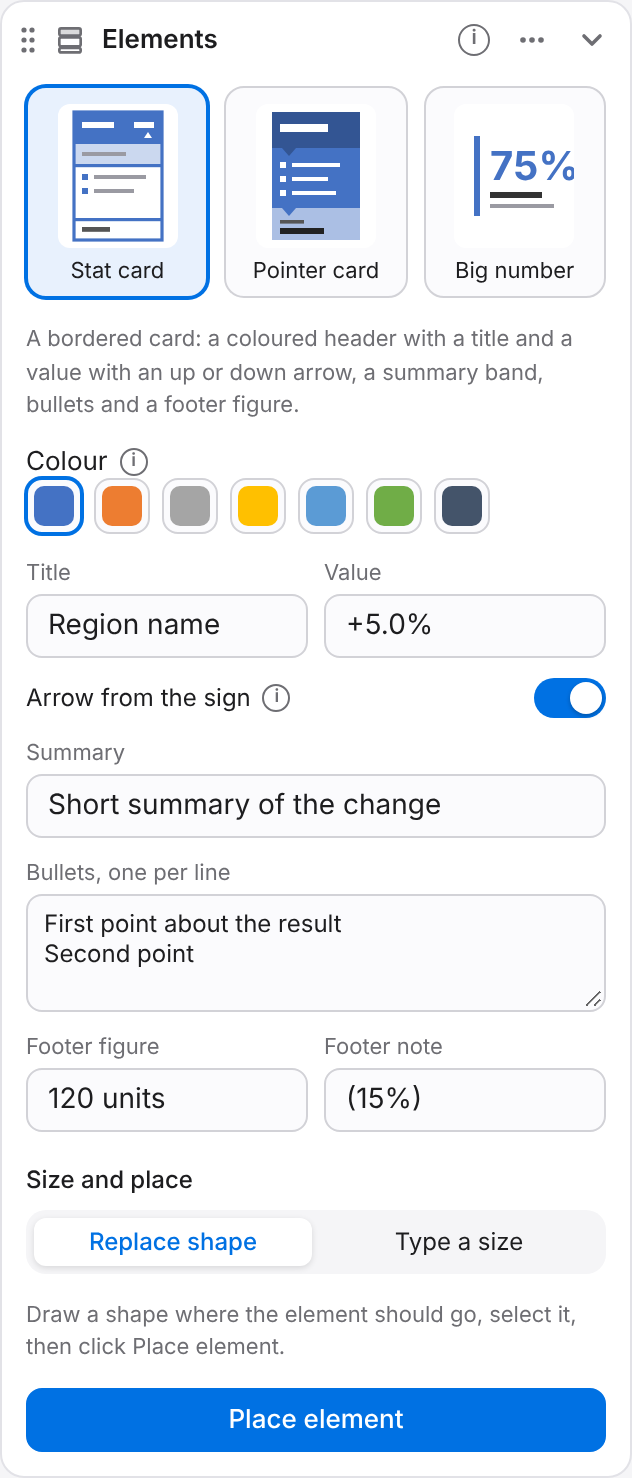
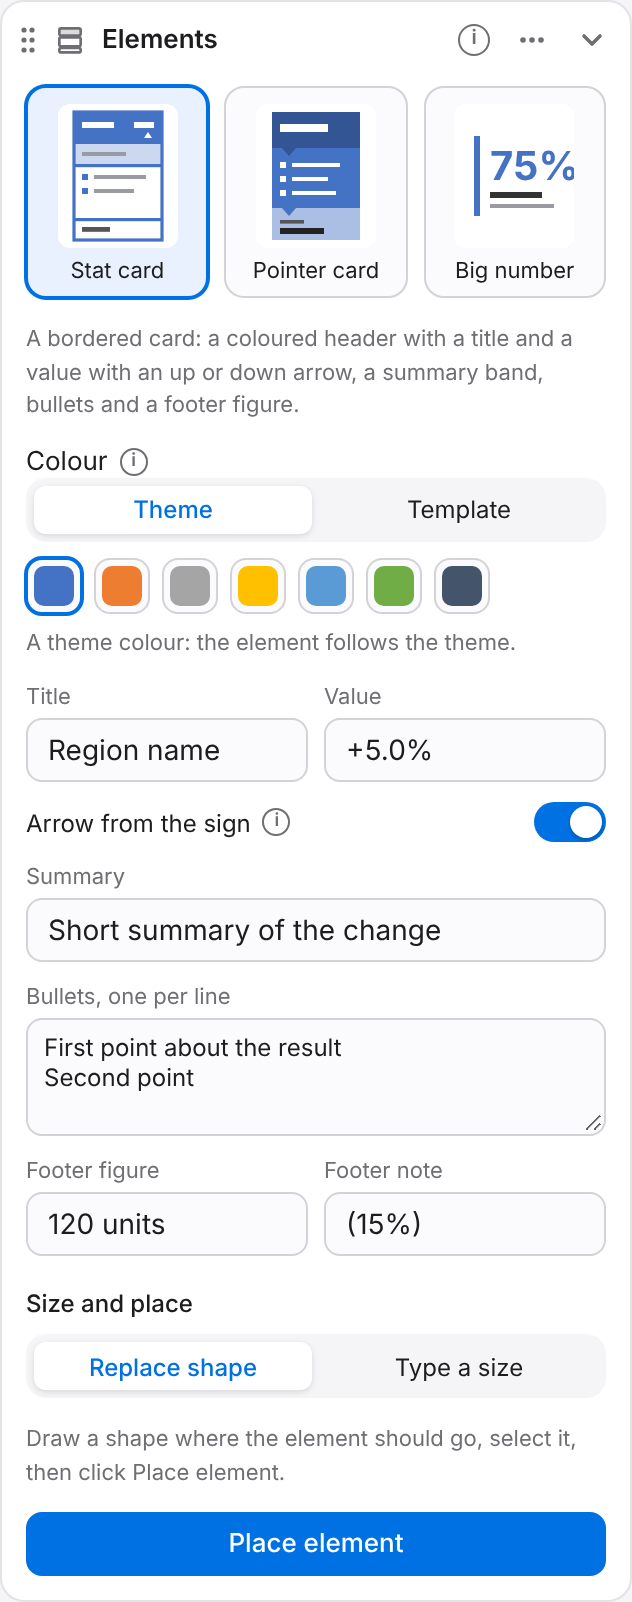
3.12.0: Elements colour tabs for theme, template and your colours
The Elements colour picker offers the same Theme, Template and Yours
colours as the Colours tool. Template and saved colours are written as
fixed colours with the same darker and lighter variants as theme colours.
The Colours tool now tells other tools when its lists change.

diff --git a/manual/elements.html b/manual/elements.html
@@ -7,6 +7,6 @@
 <button class="menu-toggle" id="menuToggle" type="button">Menu</button><button class="theme-btn" id="themeBtn" type="button">Dark mode</button></div></header>
 <div class="page">
 <aside class="side" aria-label="All pages"><h2>Start</h2><ol><li><a href="../manual.html">Home</a></li><li><a href="install.html">Install</a></li></ol><h2>Tools</h2><ol><li><a href="layout.html">Grid</a></li><li><a href="arrange.html">Position</a></li><li><a href="resize.html">Size</a></li><li><a href="copies.html">Copies</a></li><li><a href="animate.html">Animation</a></li><li><a href="elements.html" class="on">Elements</a></li><li><a href="typography.html">Typography</a></li><li><a href="colours.html">Colours</a></li><li><a href="styles.html">Styles</a></li><li><a href="shapestyles.html">Shape styles</a></li><li><a href="images.html">Images</a></li><li><a href="tables.html">Tables</a></li><li><a href="corners.html">Corners</a></li><li><a href="match.html">Select similar</a></li></ol><h2>Reference</h2><ol><li><a href="formulas.html">Formulas and units</a></li><li><a href="glossary.html">Glossary</a></li><li><a href="tips.html">Expert tips</a></li></ol></aside>
-<main><div class="hero"><h1>Elements</h1><p class="lead">Prebuilt design elements in your theme colours.</p></div><section class="block"><h2 id="overview">Overview</h2><p>Elements drops prebuilt design elements onto the slide: a stat card with a value and an arrow, a pointer card with bands joined by small pointers, and a big number. They use your theme's colours and fonts, so they match the template they're placed in.</p><h3>Quick start</h3><ol class="steps"><li>Click the picture of the element you want, then pick a colour and fill in its text.</li><li>Draw a rectangle where it should go and select it.</li><li>Click <b>Place element</b>, then edit the text on the slide like any other shape.</li></ol></section><section class="block"><h2 id="panel">The panel, control by control</h2><figure class="annot"><div><div class="annot-img"><img src="img/elements-basic.png" alt="Elements with the Stat card chosen." width="316" height="739" loading="lazy"><a class="mark" href="#elements-basic-1" style="left:5.06%;top:6.23%" aria-label="Elements">1</a><a class="mark" href="#elements-basic-2" style="left:5.06%;top:32.70%" aria-label="Colour">2</a><a class="mark" href="#elements-basic-3" style="left:5.06%;top:40.56%" aria-label="Text fields">3</a><a class="mark" href="#elements-basic-4" style="left:5.06%;top:82.26%" aria-label="Size and place">4</a><a class="mark" href="#elements-basic-6" style="left:5.06%;top:94.31%" aria-label="Place element">6</a></div><figcaption>Elements with the Stat card chosen.</figcaption></div><div class="annot-side"><ol><li><span class="num">1</span><a href="#elements-basic-1">Elements</a></li><li><span class="num">2</span><a href="#elements-basic-2">Colour</a></li><li><span class="num">3</span><a href="#elements-basic-3">Text fields</a></li><li><span class="num">4</span><a href="#elements-basic-4">Size and place</a></li><li><span class="num">5</span><a href="#elements-basic-5">Width and Height</a></li><li><span class="num">6</span><a href="#elements-basic-6">Place element</a></li></ol></div></figure><div class="table-wrap"><table class="ref"><thead><tr><th>#</th><th>Control</th><th>What it does</th><th>Values and default</th><th>Notes</th></tr></thead><tbody><tr id="elements-basic-1" data-control="elKinds"><td class="n"><span>1</span></td><td><b>Elements</b><br><span class="lvl">Basic</span></td><td>A small picture of each element: <b>Stat card</b>, <b>Pointer card</b> and <b>Big number</b>, drawn in the chosen colour. Click one to see its settings below.</td><td>None picked to start with</td><td>The line under the pictures says what the chosen element holds. More elements will follow.</td></tr><tr id="elements-basic-2" data-control="elColors"><td class="n"><span>2</span></td><td><b>Colour</b><br><span class="lvl">Basic</span></td><td>The theme colour the element is built from. Headers use a darker shade of it and lighter bands use tints, so changing the theme recolours the element.</td><td>Accent 1</td><td>The chips show your theme's colours once the panel has read them.</td></tr><tr id="elements-basic-3" data-control="elStTitle elStValue elStArrow elStSub elStBullets elStFootB elStFootN elPtTitle elPtBullets elPtLabel elPtFoot elBnNum elBnLabel elBnNote"><td class="n"><span>3</span></td><td><b>Text fields</b><br><span class="lvl">Basic</span></td><td>The text for the chosen element. Bullets take one point per line. You can leave the sample text and edit it on the slide afterwards.</td><td>Sample text</td><td>In a Stat card, a value starting with + gets an up arrow, one starting with - a down arrow, and 0 a flat arrow, unless Arrow from the sign is off.</td></tr><tr id="elements-basic-4" data-control="elPlace"><td class="n"><span>4</span></td><td><b>Size and place</b><br><span class="lvl">Basic</span></td><td><b>Replace shape</b> puts the element exactly where the selected shape is, at its size, and removes the shape. <b>Type a size</b> uses the Width and Height boxes and places it at the grid area's top left.</td><td>Replace shape</td><td>Draw a quick rectangle where the element should go, select it, and click Place element.</td></tr><tr id="elements-basic-5" data-control="elW elH"><td class="n"><span>5</span></td><td><b>Width and Height</b><br><span class="lvl">Basic</span></td><td>The element's size when typing a size. Width takes formulas such as <code>3col</code>, <code>2col+gap</code> or <code>8g</code>. Leave Height empty to fit the text.</td><td>Width 3col, Height empty</td><td>With a height larger than the text needs, the main band grows to fill it.</td></tr><tr id="elements-basic-6" data-control="elPlaceBtn"><td class="n"><span>6</span></td><td><b>Place element</b><br><span class="lvl">Basic</span></td><td>Builds the element as one group of shapes with the text inside each shape, and selects it.</td><td><span class="muted">None</span></td><td>The slide is swapped for an identical copy with the element, in memory, because add-ins can't set bullets or theme tints directly. Repeat last action places another.</td></tr></tbody></table></div></section><section class="block"><h2 id="how">How it works</h2><h3>One group, text inside</h3><p>Each element is a group. Every band is a shape that holds its own text, so the text moves with its band. Bullets have a hanging indent, so wrapped lines line up under the text.</p><h3>Theme colours</h3><p>Colours are theme colours with PowerPoint's own lighter and darker variants, and fonts are the theme's heading and body fonts.</p><div class="note"><b>Tip</b>Bands don't grow on their own when you add a lot of text. Make a band taller and move the ones below it, or place the element again with more height.</div></section><section class="block"><h2 id="related">Related tools</h2><ul><li><a href="layout.html">Grid</a> sets g and the columns that Width uses.</li><li><a href="resize.html">Size</a> resizes the element afterwards.</li></ul></section><nav class="pager" aria-label="Next and previous"><a class="prev" href="animate.html"><small>Previous</small>Animation</a><a class="next" href="typography.html"><small>Next</small>Typography</a></nav></main>
+<main><div class="hero"><h1>Elements</h1><p class="lead">Prebuilt design elements in your theme colours.</p></div><section class="block"><h2 id="overview">Overview</h2><p>Elements drops prebuilt design elements onto the slide: a stat card with a value and an arrow, a pointer card with bands joined by small pointers, and a big number. They use your theme's colours and fonts, so they match the template they're placed in.</p><h3>Quick start</h3><ol class="steps"><li>Click the picture of the element you want, then pick a colour and fill in its text.</li><li>Draw a rectangle where it should go and select it.</li><li>Click <b>Place element</b>, then edit the text on the slide like any other shape.</li></ol></section><section class="block"><h2 id="panel">The panel, control by control</h2><figure class="annot"><div><div class="annot-img"><img src="img/elements-basic.png" alt="Elements with the Stat card chosen." width="316" height="739" loading="lazy"><a class="mark" href="#elements-basic-1" style="left:5.06%;top:6.23%" aria-label="Elements">1</a><a class="mark" href="#elements-basic-2" style="left:5.06%;top:32.70%" aria-label="Colour">2</a><a class="mark" href="#elements-basic-3" style="left:5.06%;top:40.56%" aria-label="Text fields">3</a><a class="mark" href="#elements-basic-4" style="left:5.06%;top:82.26%" aria-label="Size and place">4</a><a class="mark" href="#elements-basic-6" style="left:5.06%;top:94.31%" aria-label="Place element">6</a></div><figcaption>Elements with the Stat card chosen.</figcaption></div><div class="annot-side"><ol><li><span class="num">1</span><a href="#elements-basic-1">Elements</a></li><li><span class="num">2</span><a href="#elements-basic-2">Colour</a></li><li><span class="num">3</span><a href="#elements-basic-3">Text fields</a></li><li><span class="num">4</span><a href="#elements-basic-4">Size and place</a></li><li><span class="num">5</span><a href="#elements-basic-5">Width and Height</a></li><li><span class="num">6</span><a href="#elements-basic-6">Place element</a></li></ol></div></figure><div class="table-wrap"><table class="ref"><thead><tr><th>#</th><th>Control</th><th>What it does</th><th>Values and default</th><th>Notes</th></tr></thead><tbody><tr id="elements-basic-1" data-control="elKinds"><td class="n"><span>1</span></td><td><b>Elements</b><br><span class="lvl">Basic</span></td><td>A small picture of each element: <b>Stat card</b>, <b>Pointer card</b> and <b>Big number</b>, drawn in the chosen colour. Click one to see its settings below.</td><td>None picked to start with</td><td>The line under the pictures says what the chosen element holds. More elements will follow.</td></tr><tr id="elements-basic-2" data-control="elColors elColTabs"><td class="n"><span>2</span></td><td><b>Colour</b><br><span class="lvl">Basic</span></td><td>The colour the element is built from, in the same tabs as Colours: <b>Theme</b>, <b>Template</b> and <b>Yours</b>. Headers use a darker shade of it and lighter bands use tints.</td><td>Accent 1</td><td>Theme colours follow the theme. Template colours and yours are fixed colours, and the line under the chips says which you picked. Template and Yours only show when there are colours in them.</td></tr><tr id="elements-basic-3" data-control="elStTitle elStValue elStArrow elStSub elStBullets elStFootB elStFootN elPtTitle elPtBullets elPtLabel elPtFoot elBnNum elBnLabel elBnNote"><td class="n"><span>3</span></td><td><b>Text fields</b><br><span class="lvl">Basic</span></td><td>The text for the chosen element. Bullets take one point per line. You can leave the sample text and edit it on the slide afterwards.</td><td>Sample text</td><td>In a Stat card, a value starting with + gets an up arrow, one starting with - a down arrow, and 0 a flat arrow, unless Arrow from the sign is off.</td></tr><tr id="elements-basic-4" data-control="elPlace"><td class="n"><span>4</span></td><td><b>Size and place</b><br><span class="lvl">Basic</span></td><td><b>Replace shape</b> puts the element exactly where the selected shape is, at its size, and removes the shape. <b>Type a size</b> uses the Width and Height boxes and places it at the grid area's top left.</td><td>Replace shape</td><td>Draw a quick rectangle where the element should go, select it, and click Place element.</td></tr><tr id="elements-basic-5" data-control="elW elH"><td class="n"><span>5</span></td><td><b>Width and Height</b><br><span class="lvl">Basic</span></td><td>The element's size when typing a size. Width takes formulas such as <code>3col</code>, <code>2col+gap</code> or <code>8g</code>. Leave Height empty to fit the text.</td><td>Width 3col, Height empty</td><td>With a height larger than the text needs, the main band grows to fill it.</td></tr><tr id="elements-basic-6" data-control="elPlaceBtn"><td class="n"><span>6</span></td><td><b>Place element</b><br><span class="lvl">Basic</span></td><td>Builds the element as one group of shapes with the text inside each shape, and selects it.</td><td><span class="muted">None</span></td><td>The slide is swapped for an identical copy with the element, in memory, because add-ins can't set bullets or theme tints directly. Repeat last action places another.</td></tr></tbody></table></div></section><section class="block"><h2 id="how">How it works</h2><h3>One group, text inside</h3><p>Each element is a group. Every band is a shape that holds its own text, so the text moves with its band. Bullets have a hanging indent, so wrapped lines line up under the text.</p><h3>Theme colours</h3><p>Colours are theme colours with PowerPoint's own lighter and darker variants, and fonts are the theme's heading and body fonts.</p><div class="note"><b>Tip</b>Bands don't grow on their own when you add a lot of text. Make a band taller and move the ones below it, or place the element again with more height.</div></section><section class="block"><h2 id="related">Related tools</h2><ul><li><a href="layout.html">Grid</a> sets g and the columns that Width uses.</li><li><a href="resize.html">Size</a> resizes the element afterwards.</li></ul></section><nav class="pager" aria-label="Next and previous"><a class="prev" href="animate.html"><small>Previous</small>Animation</a><a class="next" href="typography.html"><small>Next</small>Typography</a></nav></main>
 <aside class="onpage" aria-label="On this page"><h2>On this page</h2><ol id="onpageList"></ol></aside>
 </div></body></html>

diff --git a/js/tools/elements.js b/js/tools/elements.js
@@ -13,7 +13,7 @@
   var ICON = '<svg viewBox="0 0 18 18" fill="none" stroke="currentColor" stroke-width="1.5" stroke-linejoin="round"><rect x="3" y="2.5" width="12" height="4" rx="1" fill="currentColor" fill-opacity="0.25"/><rect x="3" y="7.5" width="12" height="5" rx="1"/><rect x="3" y="13.5" width="12" height="2.5" rx="1"/></svg>';
 
   var defaults = {
-    elKind: "", elColor: "accent1", elPlace: "selection", elW: "3col", elH: "",
+    elKind: "", elColor: "accent1", elColTab: "", elPlace: "selection", elW: "3col", elH: "",
     elStTitle: "Region name", elStValue: "+5.0%", elStArrow: true, elStSub: "Short summary of the change",
     elStBullets: "First point about the result\nSecond point", elStFootB: "120 units", elStFootN: "(15%)",
     elPtTitle: "Key insight", elPtBullets: "First point\nSecond point\nThird point", elPtLabel: "Action needed:", elPtFoot: "Next step",
@@ -33,8 +33,12 @@
   function e(pt) { return Math.round(pt * 12700); }
   function x(t) { return String(t).replace(/[&<>"]/g, function (c) { return { "&": "&amp;", "<": "&lt;", ">": "&gt;", '"': "&quot;" }[c]; }); }
   // A theme colour, optionally darker (lumMod) or lighter (lumMod plus lumOff)
+  // slot: a theme slot such as accent1, or a colour such as #C00000 from the template or your colours.
+  // Darker and lighter variants use the same lumMod and lumOff for both, like PowerPoint's own tints.
   function clr(slot, mod, off, alpha) {
-    return '<a:schemeClr val="' + slot + '">' + (mod ? '<a:lumMod val="' + mod + '"/>' : "") + (off ? '<a:lumOff val="' + off + '"/>' : "") + (alpha ? '<a:alpha val="' + alpha + '"/>' : "") + "</a:schemeClr>";
+    var fx = (mod ? '<a:lumMod val="' + mod + '"/>' : "") + (off ? '<a:lumOff val="' + off + '"/>' : "") + (alpha ? '<a:alpha val="' + alpha + '"/>' : "");
+    if (/^#[0-9a-f]{6}$/i.test(slot)) return '<a:srgbClr val="' + slot.slice(1).toUpperCase() + '">' + fx + "</a:srgbClr>";
+    return '<a:schemeClr val="' + slot + '">' + fx + "</a:schemeClr>";
   }
   function palette(slot) {
     return {
@@ -289,7 +293,9 @@
     '<div class="el-kinds" id="elKinds"></div>' +
     '<div class="help" id="elKindTip"></div>' +
     '<div class="el-settings" id="elSettings">' +
-    '<div class="field"><span class="label-row">Colour' + ST.info("Theme colours, so the element follows your template. Lighter bands are tints of the colour you pick.", "About colour") + '</span><div class="el-colors" id="elColors"></div></div>' +
+    '<div class="field"><span class="label-row">Colour' + ST.info("<b>Theme</b> colours follow the theme. <b>Template</b> colours are the extra colours your template defines, and <b>Yours</b> are the colours saved in Colours. Headers use a darker shade of the colour you pick and lighter bands use tints of it.", "About colour") + '</span>' +
+      '<div class="seg col-tabs el-col-tabs" id="elColTabs"><button data-v="theme">Theme</button><button data-v="template">Template</button><button data-v="mine">Yours</button></div>' +
+      '<div class="el-colors" id="elColors"></div><div class="help" id="elColNote"></div></div>' +
     FIELDS.stat + FIELDS.pointer + FIELDS.bignum +
     '<div class="group-label">Size and place</div>' +
     seg("elPlace", [["selection", "Replace shape", "Draw a shape, select it, and the element takes its size and place"], ["size", "Type a size", "A width in g, col or points, at the grid area's top left"]]) +
@@ -306,7 +312,7 @@
     return '<svg viewBox="0 0 60 72"><rect x="10" y="16" width="3" height="40" fill="' + c + '"/><text x="18" y="38" font-family="Segoe UI, Arial, sans-serif" font-weight="700" font-size="20" fill="' + c + '">75%</text><rect x="18" y="44" width="26" height="3" fill="#333"/><rect x="18" y="50" width="32" height="2" fill="' + t + '"/></svg>';
   }
   function renderKinds() {
-    var box = $("elKinds"), hex = themeHex[ST.state.elColor];
+    var box = $("elKinds"), hex = /^#/.test(ST.state.elColor) ? ST.state.elColor : themeHex[ST.state.elColor];
     box.innerHTML = "";
     KINDS.forEach(function (k) {
       var b = document.createElement("button");
@@ -322,18 +328,36 @@
     $("elSettings").hidden = !cur;
     Array.prototype.forEach.call(document.querySelectorAll(".el-fields"), function (f) { f.hidden = !cur || f.getAttribute("data-kind") !== cur.id; });
   }
+  // Colours: theme colours (which follow the theme), then the template's own colours and yours,
+  // the same lists the Colours tool shows. Template and your colours are fixed colours.
+  function colourLists() {
+    var C = ST._colours || {}, tpl = C.template ? C.template() : [], mine = C.get ? C.get() : [];
+    return {
+      theme: COLORS.map(function (c) { return { v: c[0], name: c[1], hex: themeHex[c[0]] }; }),
+      template: tpl.filter(function (c) { return c && c.hex && c.hex !== "#FFFFFF"; }).map(function (c) { return { v: c.hex, name: c.name || c.hex, hex: c.hex }; }),
+      mine: mine.filter(function (c) { return c && c.hex; }).map(function (c) { return { v: c.hex, name: c.name || c.hex, hex: c.hex }; })
+    };
+  }
   function renderColors() {
-    var box = $("elColors");
+    var box = $("elColors"), tabs = $("elColTabs");
     if (!box) return;
+    var L = colourLists(), have = { theme: true, template: L.template.length > 0, mine: L.mine.length > 0 };
+    var cur = ST.state.elColor || "accent1", inTab = function (k) { return L[k].some(function (c) { return c.v === cur; }); };
+    var tab = have[ST.state.elColTab] ? ST.state.elColTab : (inTab("template") ? "template" : inTab("mine") ? "mine" : "theme");
+    Array.prototype.forEach.call(tabs.children, function (b) { var v = b.getAttribute("data-v"); b.hidden = !have[v]; b.classList.toggle("on", v === tab); });
+    tabs.hidden = !have.template && !have.mine;
+    tabs.style.gridTemplateColumns = "repeat(" + Object.keys(have).filter(function (k) { return have[k]; }).length + ", 1fr)";
     box.innerHTML = "";
-    COLORS.forEach(function (c) {
+    L[tab].forEach(function (c) {
       var b = document.createElement("button");
-      b.className = "el-color" + (ST.state.elColor === c[0] ? " on" : "");
-      b.title = c[1]; b.setAttribute("aria-label", c[1]); b.setAttribute("data-slot", c[0]);
-      b.innerHTML = '<span style="background:' + (themeHex[c[0]] || "var(--field-line)") + '"></span>';
-      b.addEventListener("click", function () { ST.state.elColor = c[0]; ST.save(); renderColors(); renderKinds(); });
+      b.className = "el-color" + (cur === c.v ? " on" : "");
+      b.title = c.name + (c.hex && c.name !== c.hex ? " " + c.hex : ""); b.setAttribute("aria-label", c.name); b.setAttribute("data-slot", c.v);
+      b.innerHTML = '<span style="background:' + (c.hex || "var(--field-line)") + '"></span>';
+      b.addEventListener("click", function () { ST.state.elColor = c.v; ST.state.elColTab = tab; ST.save(); renderColors(); renderKinds(); });
       box.appendChild(b);
     });
+    var note = $("elColNote"), chosen = L.theme.concat(L.template, L.mine).filter(function (c) { return c.v === cur; })[0];
+    note.textContent = /^#/.test(cur) ? (chosen ? chosen.name + ", " : "") + cur + ". A fixed colour: it stays the same if the theme changes." : "A theme colour: the element follows the theme.";
   }
   function renderPlace() {
     var size = ST.state.elPlace === "size";
@@ -355,11 +379,15 @@
     Array.prototype.forEach.call($("elPlace").children, function (b) {
       b.addEventListener("click", function (ev) { ev.preventDefault(); ST.state.elPlace = b.getAttribute("data-v"); ST.save(); renderPlace(); });
     });
+    Array.prototype.forEach.call($("elColTabs").children, function (b) {
+      b.addEventListener("click", function (ev) { ev.preventDefault(); ST.state.elColTab = b.getAttribute("data-v"); ST.save(); renderColors(); });
+    });
     $("elPlaceBtn").addEventListener("click", function () { place(null); });
     render();
     ST.on("reset", render);
     ST.on("change", renderPlace);
-    ST.on("layout", loadTheme);
+    ST.on("layout", function () { loadTheme(); renderColors(); });
+    ST.on("colours", function () { renderColors(); renderKinds(); });
     ST.on("ready", loadTheme);
   }
 

diff --git a/taskpane.html b/taskpane.html
@@ -6,7 +6,7 @@
 <meta http-equiv="X-UA-Compatible" content="IE=Edge">
 <title>Slide Tools</title>
 <script src="https://appsforoffice.microsoft.com/lib/1/hosted/office.js"></script>
-<link rel="stylesheet" href="css/panel.css?v=3.11.1">
+<link rel="stylesheet" href="css/panel.css?v=3.12.0">
 </head>
 <body>
 <div class="topbar">
@@ -30,31 +30,31 @@
 <div class="toast" id="toast"></div>
 
 <!-- Load order matters: core, then the panel framework, then each tool, then the starter. -->
-<script src="js/core.js?v=3.11.1" defer></script>
-<script src="js/panels.js?v=3.11.1" defer></script>
-<script src="js/rebuild.js?v=3.11.1" defer></script>
-<script src="js/animcore.js?v=3.11.1" defer></script>
-<script src="js/crop.js?v=3.11.1" defer></script>
-<script src="js/share.js?v=3.11.1" defer></script>
-<script src="js/clone.js?v=3.11.1" defer></script>
-<script src="js/shortcuts.js?v=3.11.1" defer></script>
-<script src="js/startup.js?v=3.11.1" defer></script>
-<script src="js/update.js?v=3.11.1" defer></script>
-<script src="js/tools/snap.js?v=3.11.1" defer></script>
-<script src="js/tools/layout.js?v=3.11.1" defer></script>
-<script src="js/tools/resize.js?v=3.11.1" defer></script>
-<script src="js/tools/copies.js?v=3.11.1" defer></script>
-<script src="js/tools/animate.js?v=3.11.1" defer></script>
-<script src="js/tools/elements.js?v=3.11.1" defer></script>
-<script src="js/tools/images.js?v=3.11.1" defer></script>
-<script src="js/tools/typography.js?v=3.11.1" defer></script>
-<script src="js/tools/corners.js?v=3.11.1" defer></script>
-<script src="js/tools/arrange.js?v=3.11.1" defer></script>
-<script src="js/tools/match.js?v=3.11.1" defer></script>
-<script src="js/tools/styles.js?v=3.11.1" defer></script>
-<script src="js/tools/shapestyles.js?v=3.11.1" defer></script>
-<script src="js/tools/tables.js?v=3.11.1" defer></script>
-<script src="js/tools/colours.js?v=3.11.1" defer></script>
-<script src="js/app.js?v=3.11.1" defer></script>
+<script src="js/core.js?v=3.12.0" defer></script>
+<script src="js/panels.js?v=3.12.0" defer></script>
+<script src="js/rebuild.js?v=3.12.0" defer></script>
+<script src="js/animcore.js?v=3.12.0" defer></script>
+<script src="js/crop.js?v=3.12.0" defer></script>
+<script src="js/share.js?v=3.12.0" defer></script>
+<script src="js/clone.js?v=3.12.0" defer></script>
+<script src="js/shortcuts.js?v=3.12.0" defer></script>
+<script src="js/startup.js?v=3.12.0" defer></script>
+<script src="js/update.js?v=3.12.0" defer></script>
+<script src="js/tools/snap.js?v=3.12.0" defer></script>
+<script src="js/tools/layout.js?v=3.12.0" defer></script>
+<script src="js/tools/resize.js?v=3.12.0" defer></script>
+<script src="js/tools/copies.js?v=3.12.0" defer></script>
+<script src="js/tools/animate.js?v=3.12.0" defer></script>
+<script src="js/tools/elements.js?v=3.12.0" defer></script>
+<script src="js/tools/images.js?v=3.12.0" defer></script>
+<script src="js/tools/typography.js?v=3.12.0" defer></script>
+<script src="js/tools/corners.js?v=3.12.0" defer></script>
+<script src="js/tools/arrange.js?v=3.12.0" defer></script>
+<script src="js/tools/match.js?v=3.12.0" defer></script>
+<script src="js/tools/styles.js?v=3.12.0" defer></script>
+<script src="js/tools/shapestyles.js?v=3.12.0" defer></script>
+<script src="js/tools/tables.js?v=3.12.0" defer></script>
+<script src="js/tools/colours.js?v=3.12.0" defer></script>
+<script src="js/app.js?v=3.12.0" defer></script>
 </body>
 </html>

diff --git a/js/tools/colours.js b/js/tools/colours.js
@@ -376,6 +376,7 @@
   }
   function render() {
     var themeRow = $("colTheme"), mine = $("colMine"), edit = $("colEdit");
+    ST.emit("colours"); // other tools that offer these colours, such as Elements, follow along
     if (!themeRow) return;
     updateDatalist();
     Array.prototype.forEach.call($("colTarget").children, function (b) { b.classList.toggle("on", b.getAttribute("data-v") === ST.state.colTarget); });
@@ -479,5 +480,5 @@
   });
 
   // Exposed for testing only
-  ST._colours = { get: function () { return palette; }, theme: function () { return theme; }, put: function (list) { palette = list; return save(); } };
+  ST._colours = { get: function () { return palette; }, theme: function () { return theme; }, template: function () { return template; }, put: function (list) { palette = list; return save(); } };
 })();

diff --git a/css/panel.css b/css/panel.css
@@ -682,3 +682,6 @@ input[type=text]:disabled { opacity: 0.6; }
 .el-name { white-space: nowrap; overflow: hidden; text-overflow: ellipsis; max-width: 100%; }
 .el-settings { display: grid; gap: 12px; }
 .el-settings[hidden] { display: none; }
+.el-col-tabs { margin-bottom: 8px; }
+.el-col-tabs[hidden] { display: none; }
+#elColNote { margin-top: 6px; }

diff --git a/README.md b/README.md
@@ -250,7 +250,7 @@ Tips:
 1. Click the picture of the element you want. Its settings appear below.
 2. Draw a rectangle where the element should go, select it, and click Place element. The element takes its size and place, and the rectangle is removed.
 3. Or choose Type a size and give a width such as `3col`, `2col+gap` or `8g`. Leave Height empty to fit the text. The element goes at the grid area's top left.
-4. Colours are theme colours: headers use a darker shade and lighter bands use tints, so a new theme recolours the element. Fonts are the theme's heading and body fonts.
+4. Colour has the same tabs as Colours: Theme, Template and Yours. Theme colours follow the theme, so a new theme recolours the element. Template colours (your template's extra colours and families) and Yours (colours saved in Colours) are fixed colours. Either way, headers use a darker shade and lighter bands use tints. Fonts are the theme's heading and body fonts.
 5. In a Stat card, a value starting with + gets ▲, one starting with - gets ▼, and 0 gets ▶.
 6. Each element is one group with the text inside each band, with real bullets. Edit the text on the slide afterwards. Bands don't grow on their own, so give long text more height.
 7. Add-ins can't set bullets or theme tints directly, so the slide is swapped for an identical copy with the element, in memory.

diff --git a/CHANGELOG.md b/CHANGELOG.md
@@ -2,6 +2,12 @@
 
 All notable changes to Slide Tools are listed here, newest first. Version numbers follow [Semantic Versioning](https://semver.org/): a major number for changes to how the panel is organised, a minor number for new features and a patch number for fixes.
 
+## [3.12.0] 2026-11-26
+
+### Added
+
+1. Elements: Colour has Theme, Template and Yours tabs, the same colours the Colours tool offers. Template and your colours get the same darker header and lighter tints as theme colours, and stay fixed when the theme changes.
+
 ## [3.11.1] 2026-11-26
 
 ### Removed
